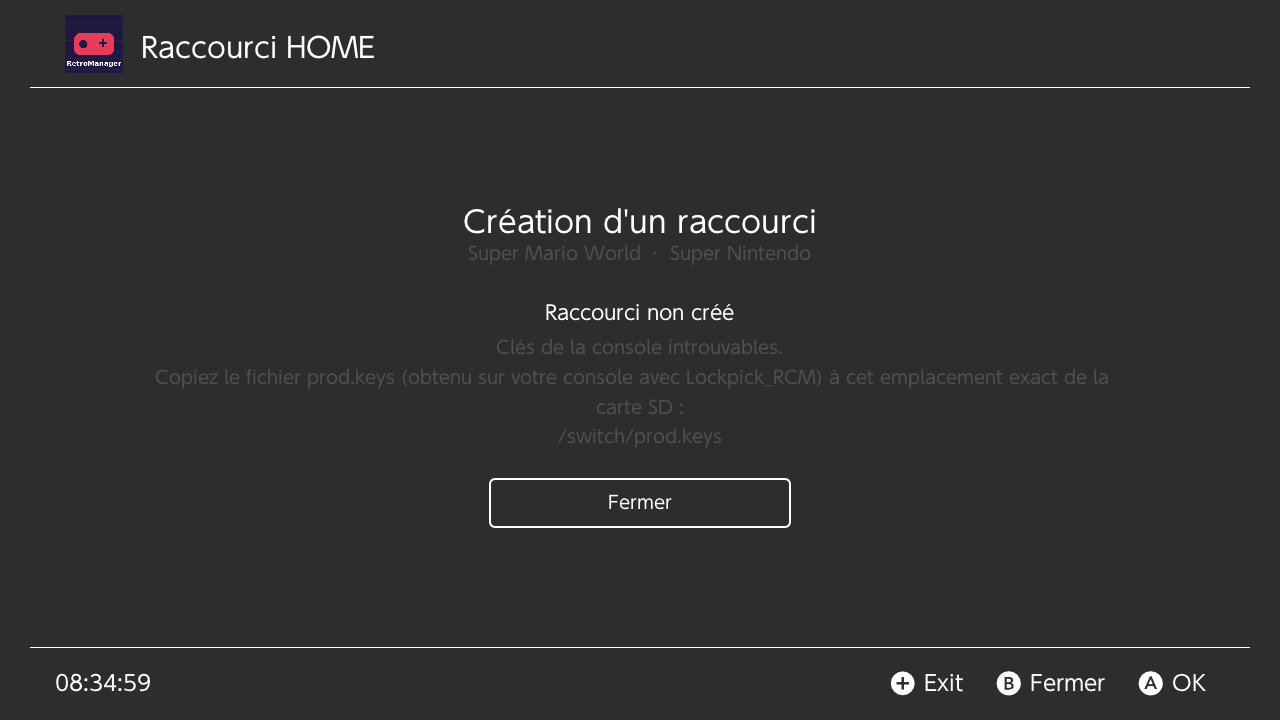
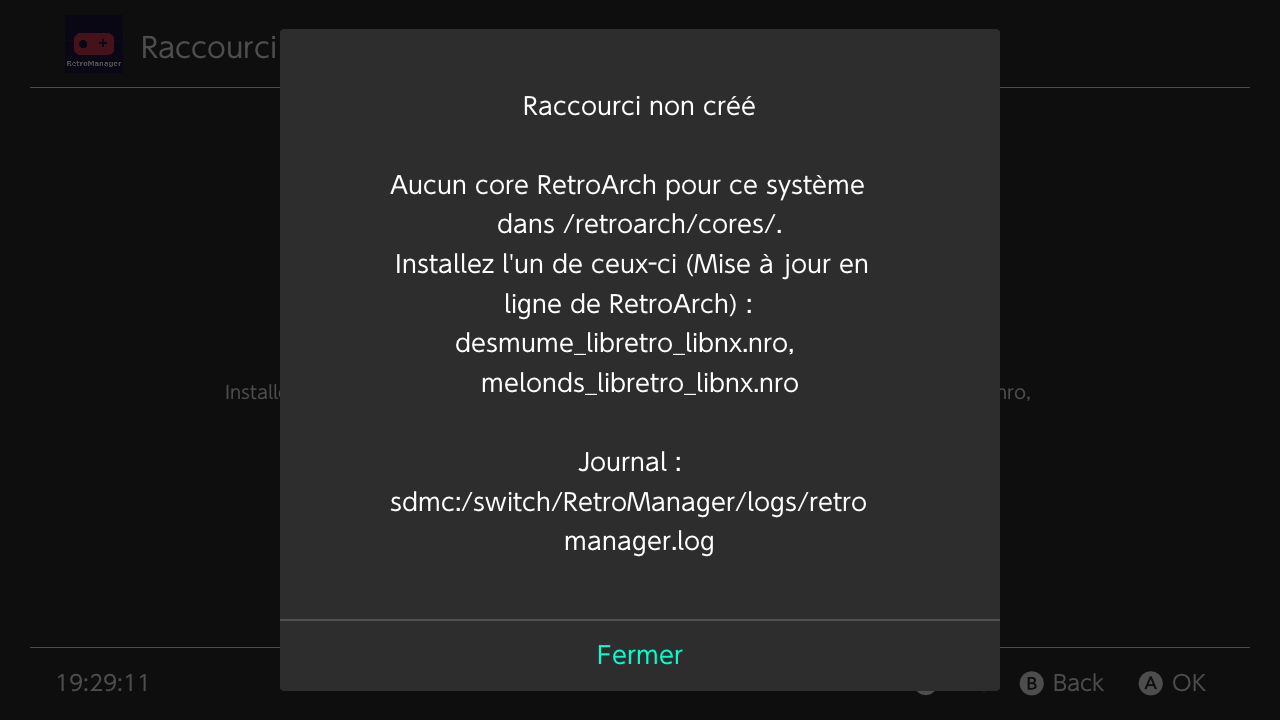
RetroManager: forwarder failures in a blocking dialog, NSP checked on the card
- After writing /nsp/<title>.nsp the builder reads the card back: a missing
  or truncated file is a WriteFailed error instead of a false success.
- Failure: blocking dialog with the exact reason and the log path; the
  result stays on screen in readable colours (was greyed out).
- Log: one line at start, the full sdmc: path and size on success, the
  human-readable reason on failure, cancellations.

Claude-Session: https://claude.ai/code/session_01QrhfqN1vSePJuW5szmThmT

diff --git a/retromanager/src/ui/ForwarderActivity.cpp b/retromanager/src/ui/ForwarderActivity.cpp
@@ -1,5 +1,7 @@
 #include "retromanager/ui/ForwarderActivity.hpp"
 
+#include <algorithm>
+
 #include "retromanager/core/Format.hpp"
 #include "retromanager/forwarder/nsp/Metadata.hpp"
 #include "retromanager/models/Systems.hpp"
@@ -63,6 +65,7 @@ void ForwarderActivity::onContentAvailable() {
         return;
     }
 
+    brls::Logger::info("Forwarder: building {} ({}, {})", game_.title, game_.system, game_.id);
     statusLabel->setText(brls::getStr("retromanager/forwarder/working", game_.title));
     setOptionalText(detailsLabel, brls::getStr("retromanager/forwarder/working_hint"));
     std::weak_ptr<bool> alive = alive_;
@@ -82,9 +85,9 @@ void ForwarderActivity::onContentAvailable() {
 void ForwarderActivity::onBuilt(const ForwarderReport& report) {
     if (finished_) return;
     if (report.ok()) {
-        brls::Logger::info("Forwarder: {} ({}) -> {}, core {}", report.title, nsp::titleIdHex(report.titleId), report.nspPath,
-                           report.corePath);
-        std::string details = brls::getStr("retromanager/forwarder/done_details", report.nspPath + "  (" +
+        brls::Logger::info("Forwarder: {} ({}) written to sdmc:{} ({}), core {}", report.title, nsp::titleIdHex(report.titleId),
+                           report.nspPath, formatBytes(report.sizeBytes), report.corePath);
+        std::string details = brls::getStr("retromanager/forwarder/done_details", "sdmc:" + report.nspPath + "  (" +
                                            formatBytes(report.sizeBytes) + ")", report.corePath, report.romPath,
                                            nsp::titleIdHex(report.titleId));
         if (report.placeholderIcon) details += "\n" + brls::getStr("retromanager/forwarder/placeholder_icon");
@@ -92,16 +95,32 @@ void ForwarderActivity::onBuilt(const ForwarderReport& report) {
         finish(brls::getStr("retromanager/forwarder/done"), details);
         return;
     }
-    brls::Logger::warning("Forwarder for {} not created: issue {} ({})", game_.title, static_cast<int>(report.issue),
-                          report.detail);
-    finish(brls::getStr("retromanager/forwarder/failed"), describeIssue(report));
+    const std::string message = describeIssue(report);
+    if (report.issue == ForwarderIssue::Cancelled) {
+        brls::Logger::info("Forwarder for {}: cancelled", game_.title);
+        finish(brls::getStr("retromanager/forwarder/failed"), message);
+        return;
+    }
+    std::string oneLine = message;
+    std::replace(oneLine.begin(), oneLine.end(), '\n', ' ');
+    brls::Logger::error("Forwarder for {} not created: {} [{}]", game_.title, oneLine, report.detail);
+    finish(brls::getStr("retromanager/forwarder/failed"), message, true);
+
+    // Blocking: the reason must not go unnoticed on a TV across the room.
+    auto* dialog = new brls::Dialog(brls::getStr("retromanager/forwarder/failed") + "\n\n" + message + "\n\n" +
+                                    brls::getStr("retromanager/forwarder/log_hint"));
+    dialog->addButton(brls::getStr("retromanager/download/close"), [] {});
+    dialog->open();
 }
 
-void ForwarderActivity::finish(const std::string& status, const std::string& details) {
+void ForwarderActivity::finish(const std::string& status, const std::string& details, bool error) {
     finished_ = true;
     spinner->setVisibility(brls::Visibility::GONE);
+    brls::Theme theme = brls::Application::getTheme();
     statusLabel->setText(status);
+    statusLabel->setTextColor(error ? nvgRGB(255, 90, 90) : theme.getColor("brls/accent"));
     setOptionalText(detailsLabel, details);
+    detailsLabel->setTextColor(theme.getColor("brls/text"));  // the result must be readable, not greyed out
     actionButton->setText(brls::getStr("retromanager/download/close"));
     root->updateActionHint(brls::BUTTON_B, brls::getStr("retromanager/download/close"));
     root->setActionAvailable(brls::BUTTON_B, true);

diff --git a/retromanager/tests/unit/ForwarderBuilderTest.cpp b/retromanager/tests/unit/ForwarderBuilderTest.cpp
@@ -54,6 +54,22 @@ const std::string kRom = "/roms/gba/Tom _ Jerry (USA).gba";
 const std::string kBoxArt = "/retroarch/thumbnails/Nintendo - Game Boy Advance/Named_Boxarts/Tom _ Jerry (USA).png";
 const std::string kCore = "/retroarch/cores/mgba_libretro_libnx.nro";
 
+// The SD card as seen after writing: what a console could do when the
+// write "succeeds" but the file does not land (full card, FAT error...).
+class CheckedFileSystem : public test::MemoryFileSystem {
+  public:
+    enum class Nsp { Normal, Missing, Truncated };
+    Nsp nsp = Nsp::Normal;
+
+    Result<FileInfo> stat(std::string_view path) override {
+        const bool isNsp = path.size() > 4 && path.substr(path.size() - 4) == ".nsp";
+        if (isNsp && nsp == Nsp::Missing) return makeError(ErrorCode::NotFound, std::string(path));
+        auto info = test::MemoryFileSystem::stat(path);
+        if (isNsp && nsp == Nsp::Truncated && info) info.value().size = 1;
+        return info;
+    }
+};
+
 struct Recorder {
     int calls = 0;
     nsp::ApplicationSpec spec;
@@ -94,7 +110,7 @@ class ForwarderBuilderTest : public ::testing::Test {
         return "<missing>";
     }
 
-    test::MemoryFileSystem fs;
+    CheckedFileSystem fs;
     Recorder recorder;
     CancellationToken cancel;
 };
@@ -131,6 +147,18 @@ TEST_F(ForwarderBuilderTest, InjectsTitleIconAndLaunchArguments) {
     EXPECT_EQ(report.romPath, kRom);
     EXPECT_EQ(report.titleId, spec.titleId);
     EXPECT_EQ(report.sizeBytes, 3u);
+}
+
+TEST_F(ForwarderBuilderTest, NspThatDoesNotLandOnTheCardIsAnError) {
+    fs.nsp = CheckedFileSystem::Nsp::Missing;
+    ForwarderReport report = builder(recorder.packager()).build(gbaGame(), cancel);
+    EXPECT_EQ(report.issue, ForwarderIssue::WriteFailed);
+    EXPECT_NE(report.detail.find("/nsp/Tom & Jerry.nsp"), std::string::npos) << report.detail;
+
+    fs.nsp = CheckedFileSystem::Nsp::Truncated;
+    report = builder(recorder.packager()).build(gbaGame(), cancel);
+    EXPECT_EQ(report.issue, ForwarderIssue::WriteFailed);
+    EXPECT_NE(report.detail.find("1 B"), std::string::npos) << report.detail;
 }
 
 TEST_F(ForwarderBuilderTest, MissingKeysSaysWhereToPutThem) {

diff --git a/retromanager/src/services/ForwarderBuilder.cpp b/retromanager/src/services/ForwarderBuilder.cpp
@@ -7,6 +7,7 @@
 #include <random>
 
 #include "retromanager/core/FileName.hpp"
+#include "retromanager/core/Format.hpp"
 #include "retromanager/forwarder/IconMaker.hpp"
 #include "retromanager/fs/RomStore.hpp"
 #include "retromanager/models/Systems.hpp"
@@ -203,6 +204,16 @@ ForwarderReport ForwarderBuilder::build(const GameEntry& game, const Cancellatio
     const Bytes& bytes = package.value();
     Status written = fs_.writeFile(output, std::string_view(reinterpret_cast<const char*>(bytes.data()), bytes.size()));
     if (!written) return issue(ForwarderIssue::WriteFailed, written.error().describe());
+    // Read the card back: a write can report success and still not land
+    // (full or failing SD card), and the user would look for it in vain.
+    auto landed = fs_.stat(output);
+    if (!landed || landed.value().type != EntryType::File) {
+        return issue(ForwarderIssue::WriteFailed, output + " is not on the SD card after writing it");
+    }
+    if (landed.value().size != bytes.size()) {
+        return issue(ForwarderIssue::WriteFailed, output + ": " + formatBytes(landed.value().size) + " on the SD card instead of " +
+                                                      formatBytes(bytes.size()));
+    }
 
     report.nspPath = output;
     report.title = title;

diff --git a/retromanager/include/retromanager/ui/ForwarderActivity.hpp b/retromanager/include/retromanager/ui/ForwarderActivity.hpp
@@ -33,7 +33,7 @@ class ForwarderActivity : public brls::Activity {
 
   private:
     void onBuilt(const ForwarderReport& report);
-    void finish(const std::string& status, const std::string& details);
+    void finish(const std::string& status, const std::string& details, bool error = false);
     bool onBack();
 
     ForwarderTools tools_;

diff --git a/retromanager/docs/FORWARDERS.md b/retromanager/docs/FORWARDERS.md
@@ -56,9 +56,25 @@ version figée), avec `tools/forwarder-stub/nx-hbloader.patch` :
 Pour le recompiler soi-même (devkitA64 + libnx) :
 `tools/forwarder-stub/build.sh <dossier de sortie>`.
 
-Si un fichier manque, l'écran le dit précisément, par exemple :
+Si un fichier manque, une fenêtre bloquante le dit précisément (le détail
+reste affiché sur l'écran après « Fermer »), par exemple :
 
-![Erreur : clés absentes (build desktop)](forwarder-error-desktop.png)
+![Erreur : core absent (build desktop)](forwarder-error-desktop.png)
+
+## Où est le NSP ? Que s'est-il passé ?
+
+- Le fichier est écrit dans **`sdmc:/nsp/<titre du jeu>.nsp`** (dossier `nsp`
+  à la racine de la carte, créé s'il n'existe pas). Le chemin exact et la
+  taille sont affichés à l'écran et dans le journal. Après l'écriture,
+  RetroManager relit la carte : un fichier absent ou tronqué est une erreur.
+- Chaque essai est écrit dans **`sdmc:/switch/RetroManager/logs/retromanager.log`** :
+  - `Forwarder: building <jeu> (...)` au début ;
+  - `Forwarder: <jeu> (<title id>) written to sdmc:/nsp/<jeu>.nsp (<taille>)` en cas de succès ;
+  - `Forwarder for <jeu> not created: <raison>` en cas d'échec ;
+  - `Forwarder for <jeu>: cancelled` si l'écran a été quitté (B) avant la fin.
+- Le journal est remplacé à chaque lancement : celui du lancement précédent
+  est gardé dans `retromanager.old.log`. Lisez-le sur PC (lecteur de carte,
+  FTP ou MTP avec DBI) ou avec l'éditeur de texte de NX-Shell.
 
 Les clés ne sont jamais recopiées, envoyées ni écrites dans les journaux.
 
